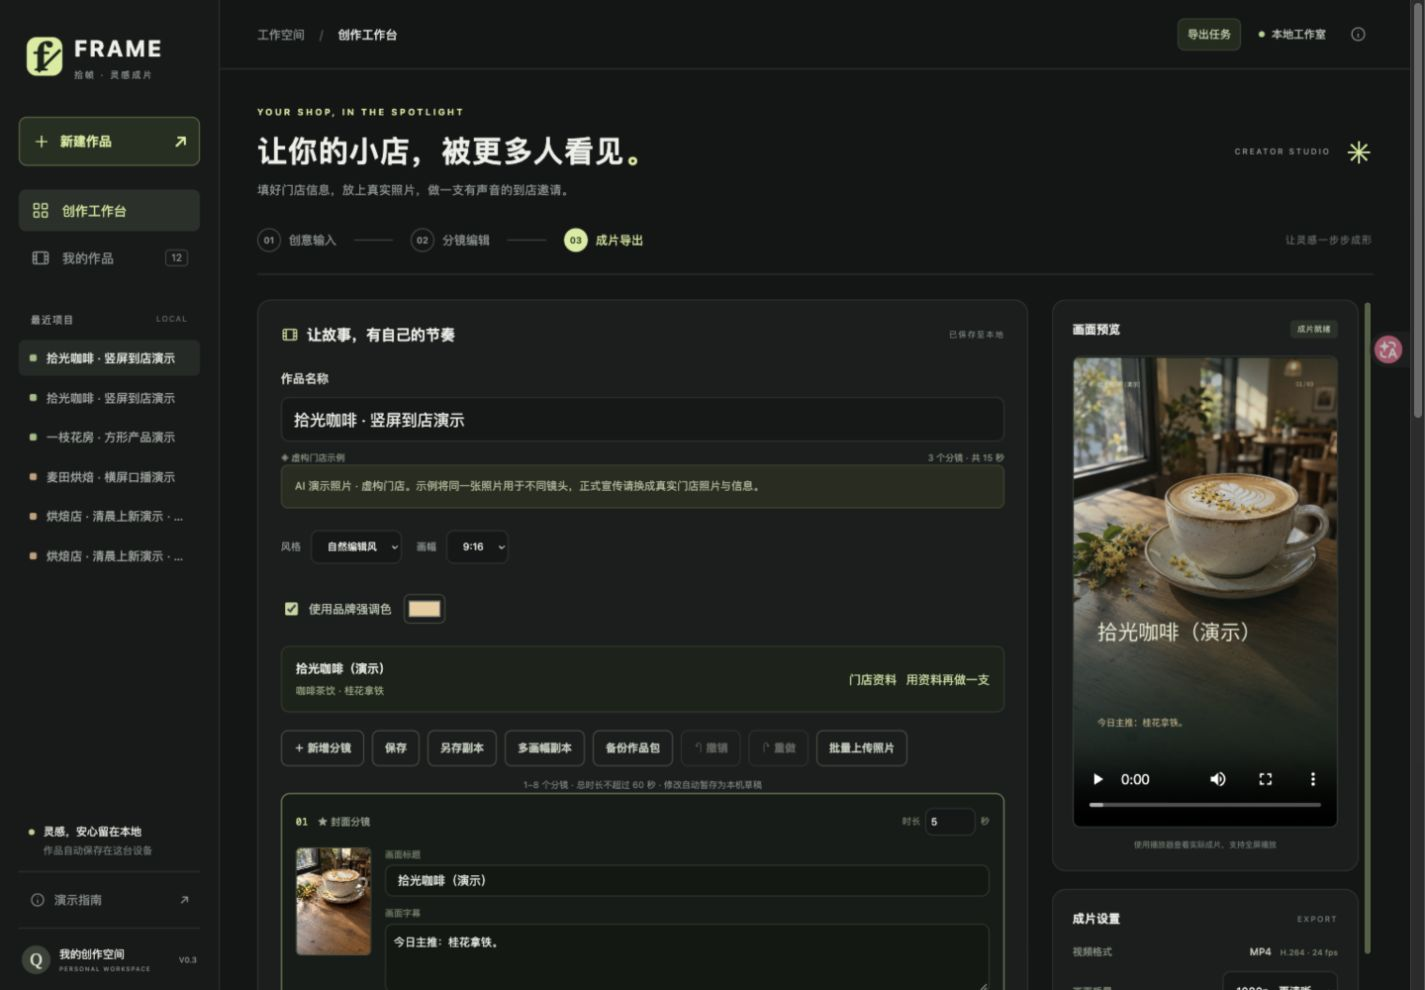
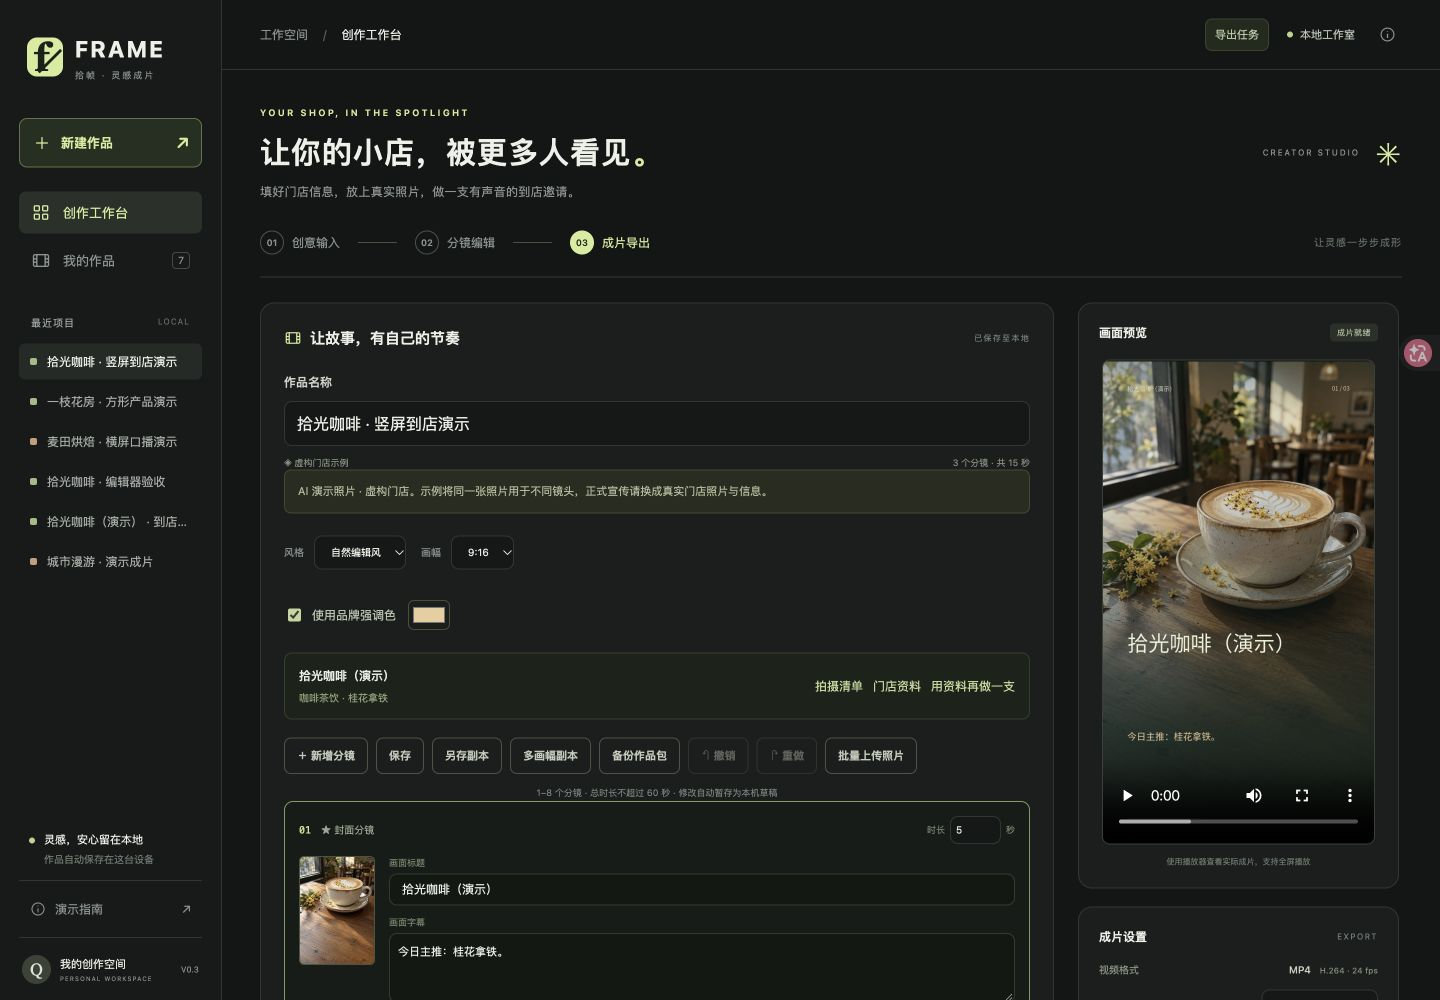
Document final cross-platform and fresh-install acceptance

diff --git a/docs/ACCEPTANCE.md b/docs/ACCEPTANCE.md
@@ -83,7 +83,7 @@ node --check web/app.js
 
 覆盖实际 MP4 完整解码、三种 1080p 画幅、选定封面像素一致性、移动背景上的稳定文字、真实编码音量比、声音与字幕时轴、排队与取消、版本冲突、草稿副本、素材隔离、多画幅失败回滚、作品包往返与无效文件拒绝。
 
-本地当前为 133 项 Python、21 项 JavaScript 测试通过。CI 包含 Linux Python 3.10/3.11/3.12 与 Windows Python 3.12。新增 Windows 验证发现默认编码导致中文元数据/字幕读取问题，已改为显式 UTF-8；8b823cf、c1fa4f6、3104a5f、8c57cf8 的 CI 均成功，后续提交结果以仓库 Actions 与 [持续开发记录](OVERNIGHT_PROGRESS.md) 为准。
+本地当前为 133 项 Python、21 项 JavaScript 测试通过。CI 包含 Linux Python 3.10/3.11/3.12 与 Windows Python 3.12。新增 Windows 验证发现默认编码导致中文元数据/字幕读取问题，已改为显式 UTF-8；8b823cf、c1fa4f6、3104a5f、8c57cf8、ecf5dd0、c967eaf 的 CI 均成功，后续提交结果以仓库 Actions 与 [持续开发记录](OVERNIGHT_PROGRESS.md) 为准。
 
 中文原生配音已通过本机实际导出与播放验收；自动化测试用可控音频验证时轴。DeepSeek 仅做模拟接口测试与官方协议核对，本次没有使用密钥或调用付费 API。Windows / Linux 可以输出字幕和音乐，macOS 婷婷配音为可选能力。
 

diff --git a/docs/OVERNIGHT_PROGRESS.md b/docs/OVERNIGHT_PROGRESS.md
@@ -112,3 +112,11 @@
 - 浏览器已真实提交三画幅咖啡配音+音乐+1080p，独立 8001 临时服务 session 15664；接下来检查成片和清理该验收环境。截图 demo/v0.3/batch-export.png。
 
 - 三画幅浏览器批量验收全部完成：[{"aspect": "9:16", "size": [1080, 1920], "duration": 18.25, "voice": true, "decode": "passed"}, {"aspect": "16:9", "size": [1920, 1080], "duration": 18.25, "voice": true, "decode": "passed"}, {"aspect": "1:1", "size": [1080, 1080], "duration": 18.25, "voice": true, "decode": "passed"}]。无浏览器错误，临时页面已关闭，随后停止临时服务。
+
+
+## 最终交付验收
+
+- 功能提交 c967eaf 已同步 GitHub，CI 39842904193 / 39842895646 均成功。后续仅更新验收说明和截图，不再新增功能。
+- 正式服务已重启到最新功能版本：PID 11237 / session 78936，http://127.0.0.1:8000。临时 8001 服务和页面均已关闭。
+- 额外保存数据库备份 work/backups/studio-final-before-tidy-20261023.sqlite3；五份本轮测试副本通过产品归档，可恢复。原始三份作品与开始前备份逐项相同；保留用户最近查看的编辑器验收作品和三套精选样片，共七份活跃作品。
+- 最终咖啡样片浏览器 readyState=4，1080×1920，18.250 秒，播放器无错误；桌面截图已更新，浏览器视口恢复默认，验收页面保留。
